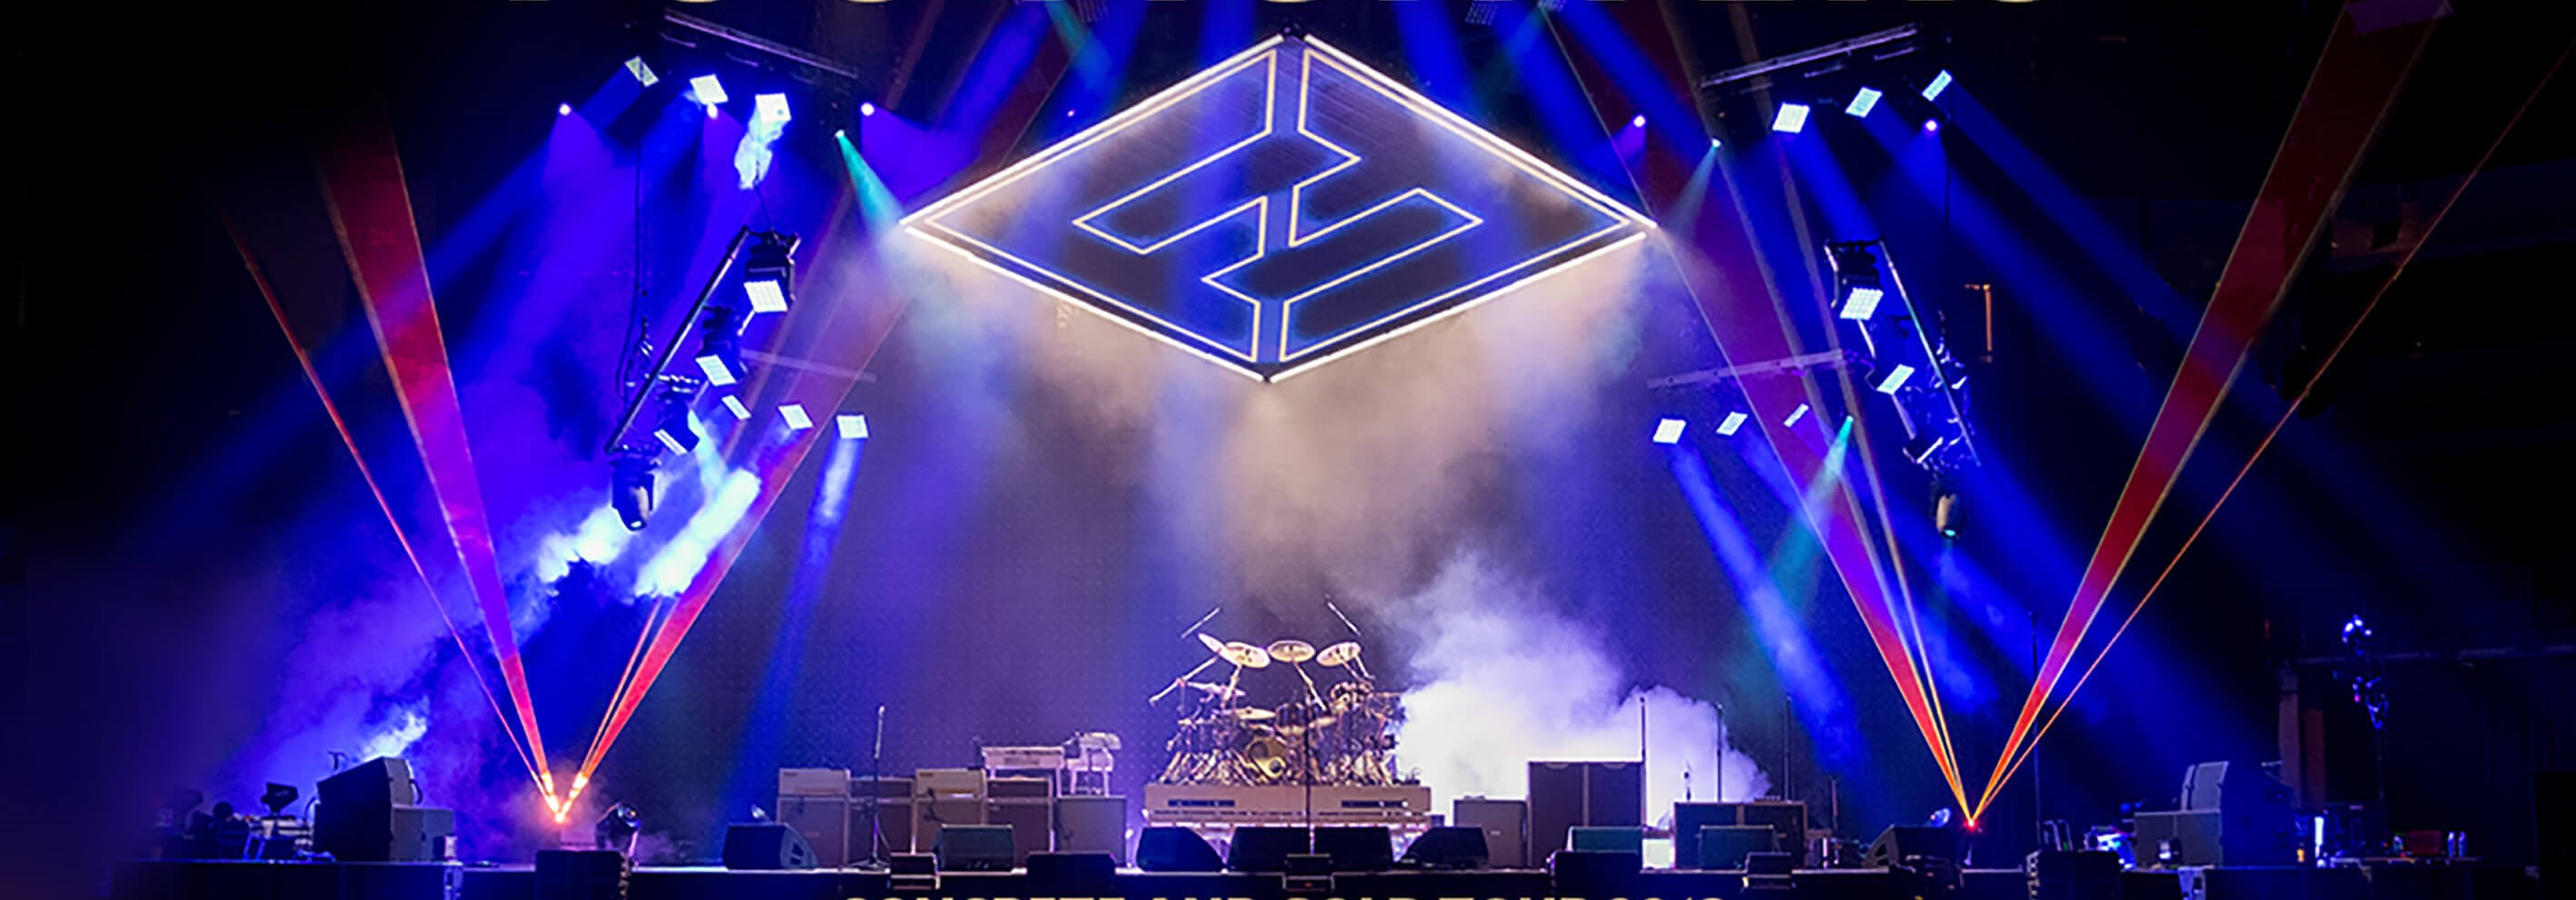
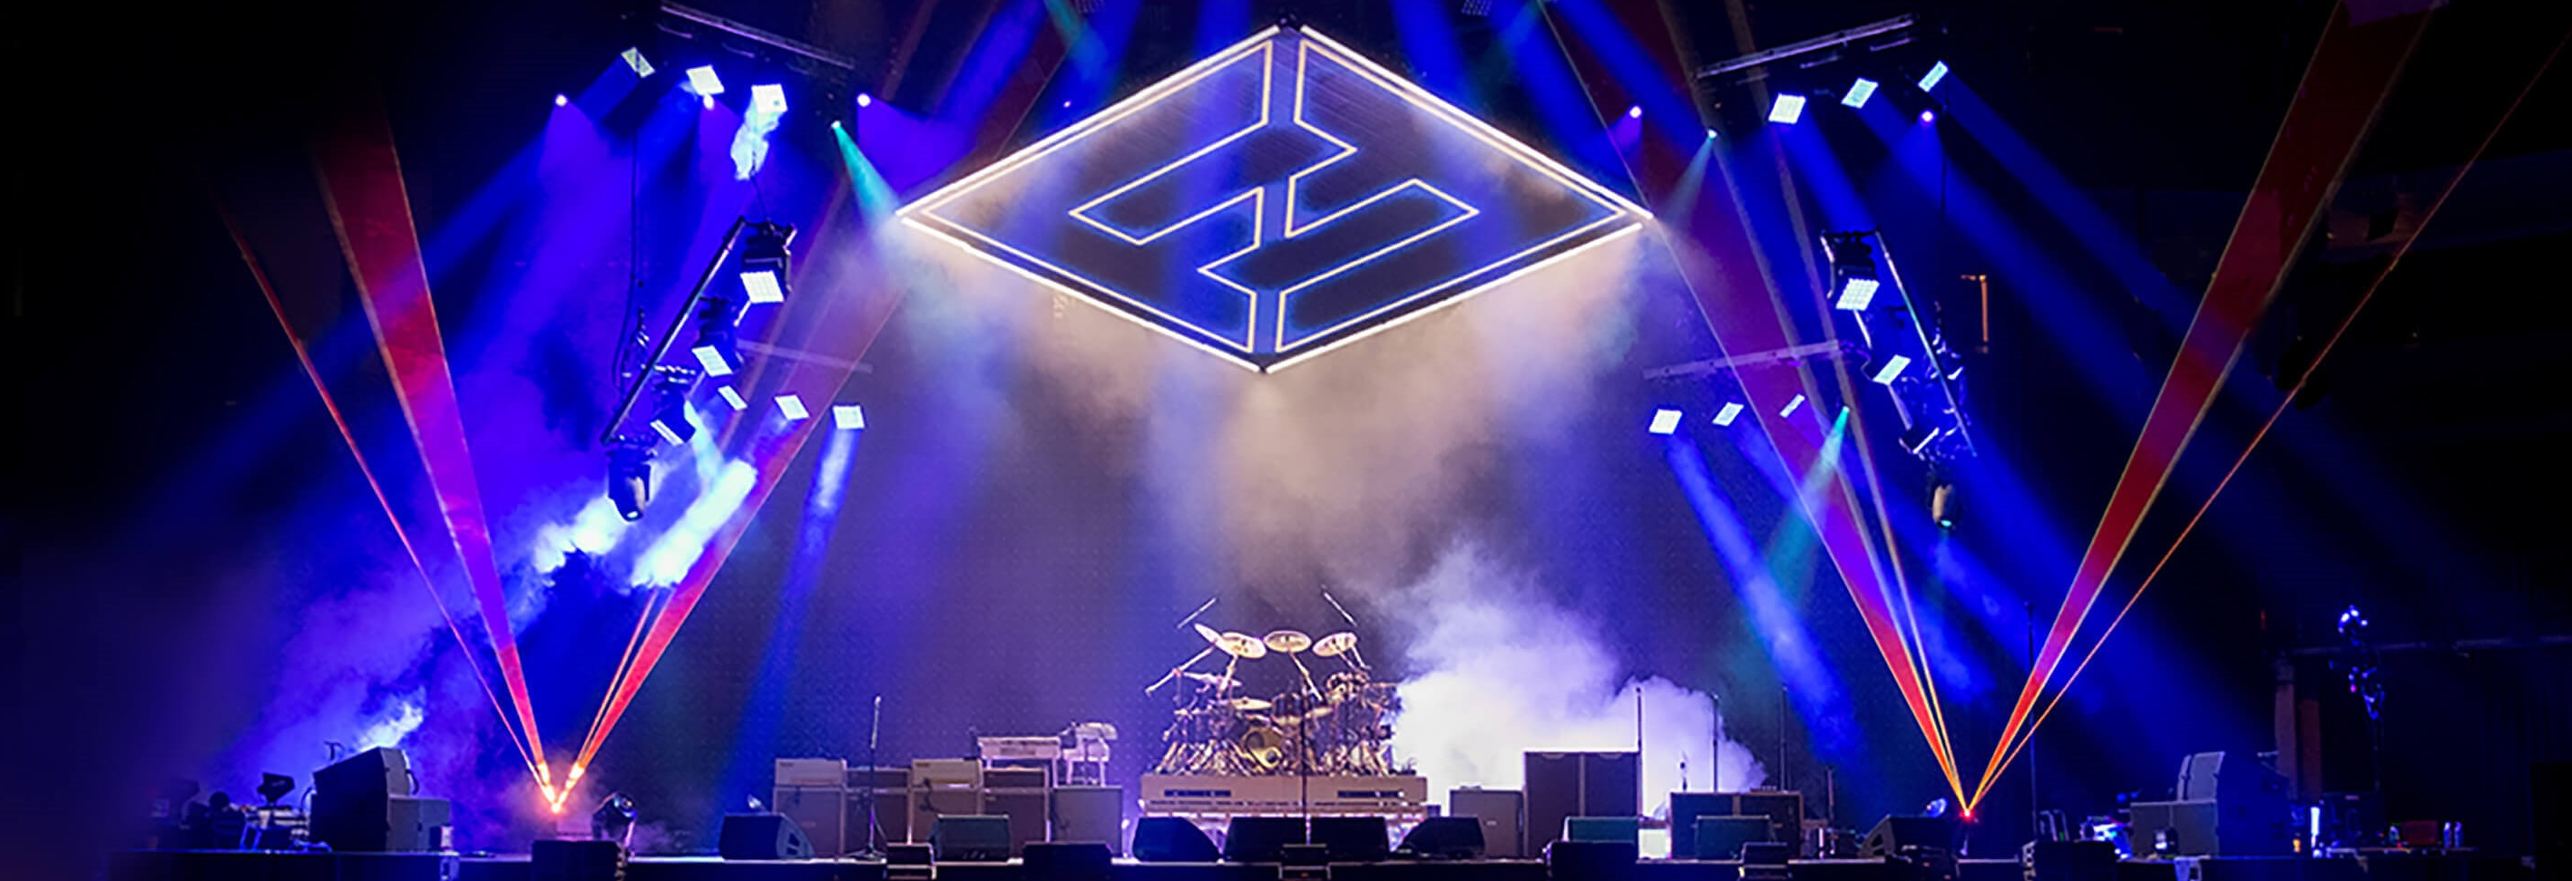
media queries to resize hero images and re worked css to avoid repetition

diff --git a/assets/css/style.css b/assets/css/style.css
@@ -68,60 +68,48 @@
 
 /*headers*/
 
-.homepage-container {
-    height: 80vh;
+.hero-image {
     padding-left: 0;
     padding-right: 0;
+    margin-top: 50px;
+    align-items: center;
+    justify-content: center;
+    position: relative;
+}
+
+.homepage-hero {
     background: url('../media/photos/foofightersbandphoto.jpg') no-repeat center center;
-    background-size: 100% 100%;
-    margin-top: 50px;
-    align-items: center;
-    justify-content: center;
-
-    position: relative;
 }
 
-.band-container {
-    height: 80vh;
-    padding-left: 0;
-    padding-right: 0;
+.band-hero {
     background: url('../media/photos/foofighterscolourbandimage.jpg') no-repeat center center;
-
-    background-size: 100% 100%;
-    margin-top: 50px;
-    align-items: center;
-    justify-content: center;
-
-    position: relative;
 }
 
-.media-container {
-    height: 80vh;
-    padding-left: 0;
-    padding-right: 0;
+.media-hero {
     background: url('../media/photos/foofightersplayinggif.gif') no-repeat center center;
-   
-    background-size: 100% 100%;
-    margin-top: 50px;
-    align-items: center;
-    justify-content: center;
-
-    position: relative;
 }
 
-.calendar-container {
-    height: 80vh;
-    padding-left: 0;
-    padding-right: 0;
+.calendar-hero {
     background: url('../media/photos/foofightersstagephoto.jpg') no-repeat center center;
-   
-    background-size: 100% 100%;
-    margin-top: 50px;
-    align-items: center;
-    justify-content: center;
-
-    position: relative;
 }
+
+/*headers media queries - images resized on tablet and mobile too keep sizing*/
+
+@media (min-width: 992px){
+     .hero-image {
+        background-size: 100% 100%;
+        height: 80vh;
+     }   
+}
+   
+@media (max-width: 991px){
+     .hero-image {
+        background-size: contain;
+        background-color: #060505;
+        height: 50vh;
+     }   
+}
+
 
 /*homepage*/
 

diff --git a/index.html b/index.html
@@ -42,12 +42,12 @@
 </header>
 <!-- Homepage -->  
 
-<!-- Header full width cover image -->
-    <div class="container-fluid homepage-container">
+<!-- Header full width cover image on laptop, reduced sizing on tablet and mobile -->
+    <section class="hero-image homepage-hero">
         <div class="row">
             <div class="col-xs-12"></div>
         </div>
-    </div>
+    </section>
     
 <!-- Main Homepage body -->   
     <div class="container-wrapper bio-container">

diff --git a/band.html b/band.html
@@ -41,12 +41,12 @@
 </header>    
 <!-- Band Info page -->  
 
-<!-- Header full width cover image-->
-    <div class="container-fluid band-container">
+<!-- Header full width cover image on laptop, reduced sizing on tablet and mobile-->
+    <section class="hero-image band-hero">
         <div class="row">
             <div class="col-xs-12"></div>
         </div>
-    </div>
+    </section>
 
 <!-- Main Band page body -->
     <div class="container-wrapper member-container">

diff --git a/media.html b/media.html
@@ -39,12 +39,12 @@
         </div>
     </nav>
 </header>    
-<!-- Header full width cover gif -->
-    <div class="container-fluid media-container">
+<!-- Header full width cover gif on laptop, reduced sizing on tablet and mobile -->
+    <section class="hero-image media-hero">
         <div class="row">
             <div class="col-xs-12"></div>
         </div>
-    </div>
+    </section>
 
 <!-- MediaPage -->
 <!-- Listen -->

diff --git a/calendar.html b/calendar.html
@@ -39,9 +39,10 @@
             </div>
         </div>
     </nav>
-</header>    
-<!-- Header full width cover image -->
-    <div class="container-fluid calendar-container">
+</header>   
+
+<!-- Header full width cover image on laptop, reduced sizing on tablet and mobile -->
+    <div class="hero-image calendar-hero">
         <div class="row">
             <div class="col-xs-12"></div>
         </div>

diff --git a/README.md b/README.md
@@ -269,6 +269,7 @@ Below is a record of the testing completed and any changes made as a result.
 
 2. Cover Image
     - Resize window to confirm the image does not distort at each screen size. **A new home image with higher quality and different sizing was selected when testing as the original image did not resize correctly**
+    - Confirm images switch from full width to smaller on tablet and mobile. **Media queries introduced following testing to prevent skewing of images**
 
 3. Text Content 
     - Resize window to confirm the text positioning and format looks good at all sizes. **The middle paragraph was split to look better following testing. The width of the text below the heading was expanded to improve the format on mobile devices**
